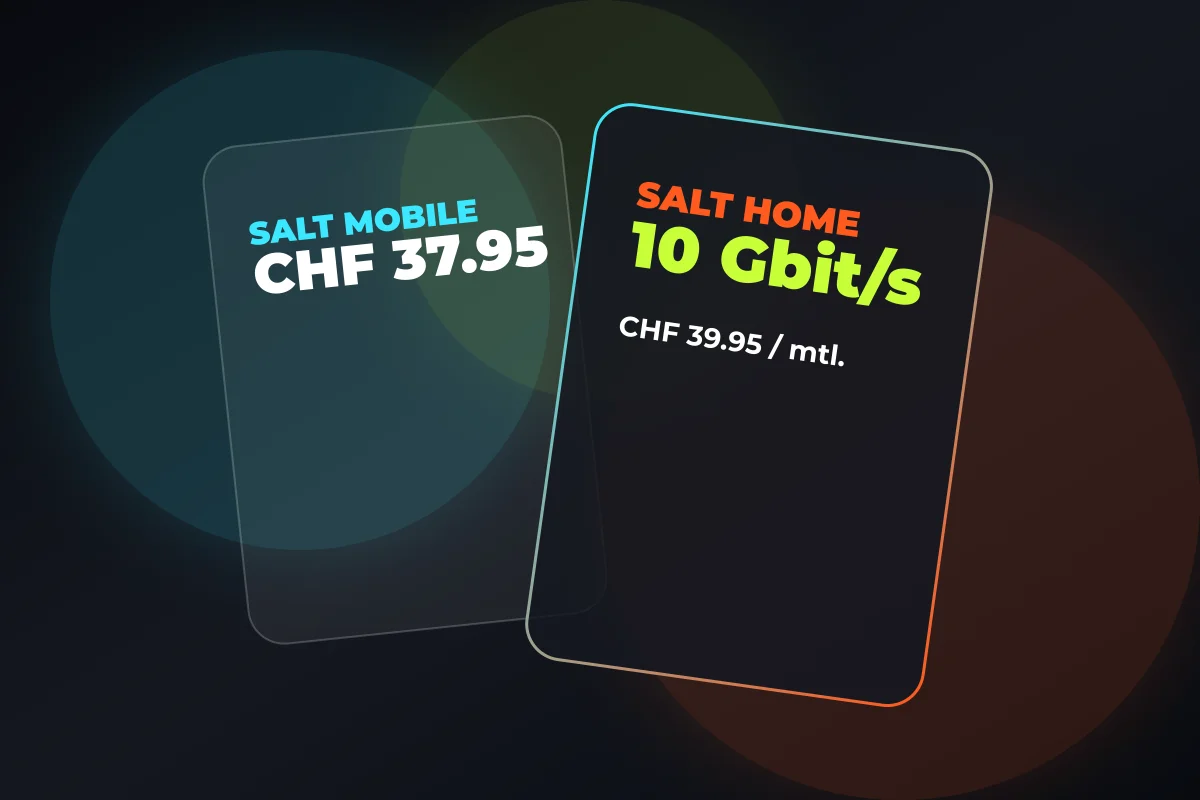
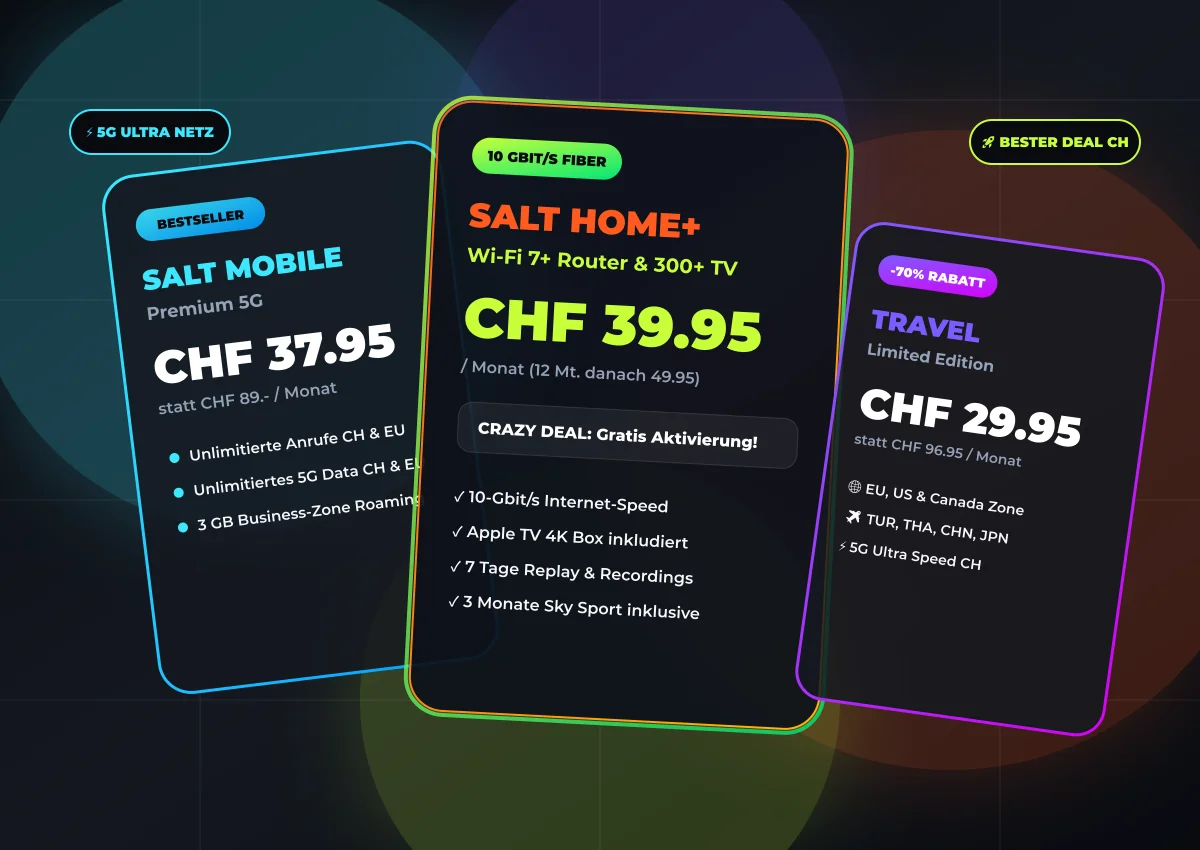
style: enrich hero composition, add card pulse glow, price micro shimmer & custom Edge scrollbar

diff --git a/scripts/generate-assets.js b/scripts/generate-assets.js
@@ -69,39 +69,139 @@ function createSvg(title, subtitle, price, badge, gradientColors) {
 
 function createHeroSvg() {
   return `
-  <svg width="1200" height="800" xmlns="http://www.w3.org/2000/svg">
+  <svg width="1200" height="850" xmlns="http://www.w3.org/2000/svg">
     <defs>
       <linearGradient id="bg" x1="0%" y1="0%" x2="100%" y2="100%">
         <stop offset="0%" stop-color="#090B10" />
         <stop offset="50%" stop-color="#141820" />
         <stop offset="100%" stop-color="#090B10" />
       </linearGradient>
-      <linearGradient id="g1" x1="0%" y1="0%" x2="100%" y2="100%">
+      <linearGradient id="cyanGrad" x1="0%" y1="0%" x2="100%" y2="100%">
         <stop offset="0%" stop-color="#3BE8FF" />
-        <stop offset="100%" stop-color="#FF5A1F" />
+        <stop offset="100%" stop-color="#0099FF" />
       </linearGradient>
-      <filter id="glow" x="-20%" y="-20%" width="140%" height="140%">
-        <feGaussianBlur stdDeviation="40" result="blur" />
+      <linearGradient id="orangeGrad" x1="0%" y1="0%" x2="100%" y2="100%">
+        <stop offset="0%" stop-color="#FF5A1F" />
+        <stop offset="100%" stop-color="#FFB700" />
+      </linearGradient>
+      <linearGradient id="limeGrad" x1="0%" y1="0%" x2="100%" y2="100%">
+        <stop offset="0%" stop-color="#C7FF38" />
+        <stop offset="100%" stop-color="#00E676" />
+      </linearGradient>
+      <linearGradient id="violetGrad" x1="0%" y1="0%" x2="100%" y2="100%">
+        <stop offset="0%" stop-color="#7C5CFF" />
+        <stop offset="100%" stop-color="#D500F9" />
+      </linearGradient>
+
+      <filter id="glow" x="-30%" y="-30%" width="160%" height="160%">
+        <feGaussianBlur stdDeviation="45" result="blur" />
         <feComposite in="SourceGraphic" in2="blur" operator="over" />
       </filter>
     </defs>
-    <rect width="1200" height="800" fill="url(#bg)" />
-    <circle cx="300" cy="300" r="250" fill="#3BE8FF" opacity="0.15" filter="url(#glow)" />
-    <circle cx="900" cy="500" r="300" fill="#FF5A1F" opacity="0.15" filter="url(#glow)" />
-    <circle cx="600" cy="200" r="200" fill="#C7FF38" opacity="0.1" filter="url(#glow)" />
 
-    <!-- Abstract Devices Glass composition -->
-    <g transform="translate(200, 150) rotate(-6)">
-      <rect x="0" y="0" width="360" height="500" rx="36" fill="rgba(255,255,255,0.06)" stroke="rgba(255,255,255,0.2)" stroke-width="2" />
-      <text x="40" y="100" font-family="-apple-system, sans-serif" font-size="32" font-weight="900" fill="#3BE8FF">SALT MOBILE</text>
-      <text x="40" y="150" font-family="-apple-system, sans-serif" font-size="56" font-weight="900" fill="#FFFFFF">CHF 37.95</text>
+    <!-- Deep Background -->
+    <rect width="1200" height="850" fill="url(#bg)" />
+
+    <!-- Ambient Glowing Orbs -->
+    <circle cx="250" cy="250" r="280" fill="#3BE8FF" opacity="0.22" filter="url(#glow)" />
+    <circle cx="950" cy="450" r="320" fill="#FF5A1F" opacity="0.2" filter="url(#glow)" />
+    <circle cx="600" cy="700" r="240" fill="#C7FF38" opacity="0.18" filter="url(#glow)" />
+    <circle cx="650" cy="150" r="200" fill="#7C5CFF" opacity="0.15" filter="url(#glow)" />
+
+    <!-- Light Rays Grid Pattern -->
+    <g opacity="0.08" stroke="#FFFFFF" stroke-width="1">
+      <line x1="0" y1="100" x2="1200" y2="100" />
+      <line x1="0" y1="300" x2="1200" y2="300" />
+      <line x1="0" y1="500" x2="1200" y2="500" />
+      <line x1="0" y1="700" x2="1200" y2="700" />
+      <line x1="200" y1="0" x2="200" y2="850" />
+      <line x1="600" y1="0" x2="600" y2="850" />
+      <line x1="1000" y1="0" x2="1000" y2="850" />
     </g>
 
-    <g transform="translate(600, 100) rotate(8)">
-      <rect x="0" y="0" width="400" height="560" rx="36" fill="rgba(20,24,32,0.85)" stroke="url(#g1)" stroke-width="3" />
-      <text x="50" y="100" font-family="-apple-system, sans-serif" font-size="36" font-weight="900" fill="#FF5A1F">SALT HOME</text>
-      <text x="50" y="160" font-family="-apple-system, sans-serif" font-size="64" font-weight="900" fill="#C7FF38">10 Gbit/s</text>
-      <text x="50" y="230" font-family="-apple-system, sans-serif" font-size="28" font-weight="700" fill="#FFFFFF">CHF 39.95 / mtl.</text>
+    <!-- CARD 1: Mobile Premium Glass Card (Left Perspective) -->
+    <g transform="translate(100, 180) rotate(-7)">
+      <rect x="0" y="0" width="340" height="520" rx="32" fill="rgba(20,24,32,0.85)" stroke="url(#cyanGrad)" stroke-width="3" />
+      <!-- Top Badge -->
+      <rect x="30" y="35" width="130" height="32" rx="16" fill="url(#cyanGrad)" opacity="0.9" />
+      <text x="95" y="56" font-family="-apple-system, sans-serif" font-size="13" font-weight="900" fill="#090B10" text-anchor="middle">BESTSELLER</text>
+      
+      <text x="30" y="115" font-family="-apple-system, sans-serif" font-size="28" font-weight="900" fill="#3BE8FF">SALT MOBILE</text>
+      <text x="30" y="145" font-family="-apple-system, sans-serif" font-size="18" font-weight="700" fill="#94A3B8">Premium 5G</text>
+      
+      <!-- Price Display -->
+      <text x="30" y="210" font-family="-apple-system, sans-serif" font-size="46" font-weight="900" fill="#FFFFFF">CHF 37.95</text>
+      <text x="30" y="240" font-family="-apple-system, sans-serif" font-size="16" font-weight="600" fill="#94A3B8">statt CHF 89.- / Monat</text>
+      
+      <!-- Bullet Points -->
+      <g transform="translate(30, 275)" fill="#F7F8FA" font-family="-apple-system, sans-serif" font-size="15" font-weight="600">
+        <circle cx="10" cy="10" r="5" fill="#3BE8FF" />
+        <text x="25" y="15">Unlimitierte Anrufe CH &amp; EU</text>
+        <circle cx="10" cy="45" r="5" fill="#3BE8FF" />
+        <text x="25" y="50">Unlimitiertes 5G Data CH &amp; EU</text>
+        <circle cx="10" cy="80" r="5" fill="#3BE8FF" />
+        <text x="25" y="85">3 GB Business-Zone Roaming</text>
+      </g>
+    </g>
+
+    <!-- CARD 2: Salt Home+ Ultra Card (Center Prominent) -->
+    <g transform="translate(440, 100) rotate(3)">
+      <!-- Outer Glow Frame -->
+      <rect x="-4" y="-4" width="418" height="618" rx="38" fill="none" stroke="url(#limeGrad)" stroke-width="4" opacity="0.8" />
+      <rect x="0" y="0" width="410" height="610" rx="34" fill="rgba(14,18,26,0.92)" stroke="url(#orangeGrad)" stroke-width="2" />
+      
+      <!-- Top Badge -->
+      <rect x="35" y="35" width="150" height="36" rx="18" fill="url(#limeGrad)" />
+      <text x="110" y="58" font-family="-apple-system, sans-serif" font-size="14" font-weight="900" fill="#090B10" text-anchor="middle">10 GBIT/S FIBER</text>
+      
+      <text x="35" y="125" font-family="-apple-system, sans-serif" font-size="34" font-weight="900" fill="#FF5A1F">SALT HOME+</text>
+      <text x="35" y="160" font-family="-apple-system, sans-serif" font-size="20" font-weight="700" fill="#C7FF38">Wi-Fi 7+ Router &amp; 300+ TV</text>
+      
+      <!-- Price Display -->
+      <text x="35" y="235" font-family="-apple-system, sans-serif" font-size="56" font-weight="900" fill="#C7FF38">CHF 39.95</text>
+      <text x="35" y="270" font-family="-apple-system, sans-serif" font-size="16" font-weight="600" fill="#94A3B8">/ Monat (12 Mt. danach 49.95)</text>
+
+      <!-- Glass Highlight Pill -->
+      <rect x="35" y="300" width="340" height="50" rx="14" fill="rgba(255,255,255,0.06)" stroke="rgba(255,255,255,0.12)" />
+      <text x="55" y="331" font-family="-apple-system, sans-serif" font-size="16" font-weight="800" fill="#FFFFFF">CRAZY DEAL: Gratis Aktivierung!</text>
+
+      <!-- Feature Checklist -->
+      <g transform="translate(35, 385)" fill="#F7F8FA" font-family="-apple-system, sans-serif" font-size="16" font-weight="600">
+        <text x="0" y="15">✓ 10-Gbit/s Internet-Speed</text>
+        <text x="0" y="50">✓ Apple TV 4K Box inkludiert</text>
+        <text x="0" y="85">✓ 7 Tage Replay &amp; Recordings</text>
+        <text x="0" y="120">✓ 3 Monate Sky Sport inklusive</text>
+      </g>
+    </g>
+
+    <!-- CARD 3: Travel Limited Edition (Right Perspective) -->
+    <g transform="translate(860, 220) rotate(8)">
+      <rect x="0" y="0" width="310" height="480" rx="28" fill="rgba(20,24,32,0.85)" stroke="url(#violetGrad)" stroke-width="3" />
+      <rect x="25" y="30" width="120" height="30" rx="15" fill="url(#violetGrad)" />
+      <text x="85" y="50" font-family="-apple-system, sans-serif" font-size="13" font-weight="900" fill="#FFFFFF" text-anchor="middle">-70% RABATT</text>
+
+      <text x="25" y="105" font-family="-apple-system, sans-serif" font-size="26" font-weight="900" fill="#7C5CFF">TRAVEL</text>
+      <text x="25" y="132" font-family="-apple-system, sans-serif" font-size="16" font-weight="700" fill="#94A3B8">Limited Edition</text>
+
+      <text x="25" y="195" font-family="-apple-system, sans-serif" font-size="42" font-weight="900" fill="#FFFFFF">CHF 29.95</text>
+      <text x="25" y="222" font-family="-apple-system, sans-serif" font-size="14" font-weight="600" fill="#94A3B8">statt CHF 96.95 / Monat</text>
+
+      <g transform="translate(25, 255)" fill="#F7F8FA" font-family="-apple-system, sans-serif" font-size="14" font-weight="600">
+        <text x="0" y="15">🌐 EU, US &amp; Canada Zone</text>
+        <text x="0" y="45">✈ TUR, THA, CHN, JPN</text>
+        <text x="0" y="75">⚡ 5G Ultra Speed CH</text>
+      </g>
+    </g>
+
+    <!-- Floating Speed Badges & Accents -->
+    <g transform="translate(70, 110)">
+      <rect x="0" y="0" width="160" height="44" rx="22" fill="#090B10" stroke="#3BE8FF" stroke-width="2" />
+      <text x="80" y="27" font-family="-apple-system, sans-serif" font-size="14" font-weight="900" fill="#3BE8FF" text-anchor="middle">⚡ 5G ULTRA NETZ</text>
+    </g>
+
+    <g transform="translate(970, 120)">
+      <rect x="0" y="0" width="170" height="44" rx="22" fill="#090B10" stroke="#C7FF38" stroke-width="2" />
+      <text x="85" y="27" font-family="-apple-system, sans-serif" font-size="14" font-weight="900" fill="#C7FF38" text-anchor="middle">🚀 BESTER DEAL CH</text>
     </g>
   </svg>
   `;
@@ -143,14 +243,6 @@ async function build() {
     const stats = fs.statSync(filePath);
     console.log(`Generated ${item.file} (${stats.size} bytes)`);
   }
-
-  const dummyVideoPath = path.join(videoDir, 'promo-preview.mp4');
-  const mp4Buffer = Buffer.from(
[1 lines of base64/hex data omitted]
-    'hex'
-  );
-  fs.writeFileSync(dummyVideoPath, mp4Buffer);
-  console.log('Generated promo-preview.mp4 placeholder video file');
 }
 
 build().catch(console.error);

diff --git a/app/globals.css b/app/globals.css
@@ -122,6 +122,33 @@ body {
   -moz-osx-font-smoothing: grayscale;
 }
 
+/* --------------------------------------------------------------------------
+   3. Custom Modern Scrollbar (Edge / WebKit / Firefox)
+   -------------------------------------------------------------------------- */
+::-webkit-scrollbar {
+  width: 10px;
+  height: 10px;
+}
+
+::-webkit-scrollbar-track {
+  background: var(--bg-main);
+}
+
+::-webkit-scrollbar-thumb {
+  background: linear-gradient(180deg, var(--cyan) 0%, var(--orange) 100%);
+  border-radius: 9999px;
+  border: 2px solid var(--bg-main);
+}
+
+::-webkit-scrollbar-thumb:hover {
+  background: linear-gradient(180deg, var(--lime) 0%, var(--violet) 100%);
+}
+
+* {
+  scrollbar-width: thin;
+  scrollbar-color: var(--cyan) var(--bg-main);
+}
+
 /* Page Container Wrapper */
 .container {
   width: 100%;
@@ -139,7 +166,7 @@ body {
 }
 
 /* --------------------------------------------------------------------------
-   3. Typography & Badges
+   4. Typography & Badges
    -------------------------------------------------------------------------- */
 h1, h2, h3, h4 {
   font-weight: 800;
@@ -211,7 +238,7 @@ h1, h2, h3, h4 {
 }
 
 /* --------------------------------------------------------------------------
-   4. Buttons & Interactive Elements
+   5. Buttons & Interactive Elements
    -------------------------------------------------------------------------- */
 .btn {
   display: inline-flex;
@@ -275,7 +302,7 @@ h1, h2, h3, h4 {
 }
 
 /* --------------------------------------------------------------------------
-   5. Card Layouts & Perspective FX
+   6. Card Layouts & Dynamic Animations
    -------------------------------------------------------------------------- */
 .grid-offers {
   display: grid;
@@ -305,8 +332,48 @@ h1, h2, h3, h4 {
   box-shadow: 0 20px 40px rgba(0, 0, 0, 0.3);
 }
 
+/* Bestseller Pulsing Glow Card Animation */
+.card-pulsing-glow {
+  animation: pulseCardGlow 3s ease-in-out infinite alternate;
+}
+
+@keyframes pulseCardGlow {
+  0% {
+    box-shadow: 0 0 15px rgba(59, 232, 255, 0.25), 0 10px 30px var(--shadow-color);
+    border-color: rgba(59, 232, 255, 0.5);
+  }
+  50% {
+    box-shadow: 0 0 35px rgba(59, 232, 255, 0.7), 0 0 15px rgba(255, 90, 31, 0.4);
+    border-color: var(--cyan);
+  }
+  100% {
+    box-shadow: 0 0 20px rgba(59, 232, 255, 0.3), 0 10px 30px var(--shadow-color);
+    border-color: rgba(59, 232, 255, 0.6);
+  }
+}
+
+/* Subtle Price Tag Micro Pulse / Shimmer Animation for standard cards */
+.price-micro-pulse {
+  animation: pricePulseShimmer 2.5s ease-in-out infinite alternate;
+}
+
+@keyframes pricePulseShimmer {
+  0% {
+    filter: drop-shadow(0 0 2px rgba(255, 255, 255, 0.1));
+    transform: scale(1);
+  }
+  50% {
+    filter: drop-shadow(0 0 12px rgba(59, 232, 255, 0.5));
+    transform: scale(1.03);
+  }
+  100% {
+    filter: drop-shadow(0 0 2px rgba(255, 255, 255, 0.1));
+    transform: scale(1);
+  }
+}
+
 /* --------------------------------------------------------------------------
-   6. Form Controls
+   7. Form Controls
    -------------------------------------------------------------------------- */
 .form-group {
   display: flex;
@@ -346,7 +413,7 @@ h1, h2, h3, h4 {
 }
 
 /* --------------------------------------------------------------------------
-   7. Accessibility & Motion Controls
+   8. Accessibility & Motion Controls
    -------------------------------------------------------------------------- */
 @media (prefers-reduced-motion: reduce) {
   html, body, *, *::before, *::after {

diff --git a/components/OfferCard.tsx b/components/OfferCard.tsx
@@ -29,7 +29,7 @@ export default function OfferCard({ offer, onSelect }: OfferCardProps) {
 
   return (
     <article
-      className="offer-card"
+      className={`offer-card ${offer.popular ? 'card-pulsing-glow' : ''}`}
       style={{
         borderColor: offer.popular ? getBorderGlow(offer.accentColor) : undefined,
       }}
@@ -98,8 +98,11 @@ export default function OfferCard({ offer, onSelect }: OfferCardProps) {
           {offer.description}
         </p>
 
-        {/* Pricing Area */}
-        <div style={{ display: 'flex', alignItems: 'baseline', gap: '10px', marginBottom: '20px' }}>
+        {/* Pricing Area with micro pulse effect for non-bestseller cards */}
+        <div
+          className={`price-container ${!offer.popular ? 'price-micro-pulse' : ''}`}
+          style={{ display: 'flex', alignItems: 'baseline', gap: '10px', marginBottom: '20px', transition: 'transform 0.3s ease' }}
+        >
           <span className={`price ${getGradientClass(offer.accentColor)}`} style={{ fontSize: '2rem', fontWeight: 900 }}>
             {offer.price}
           </span>
